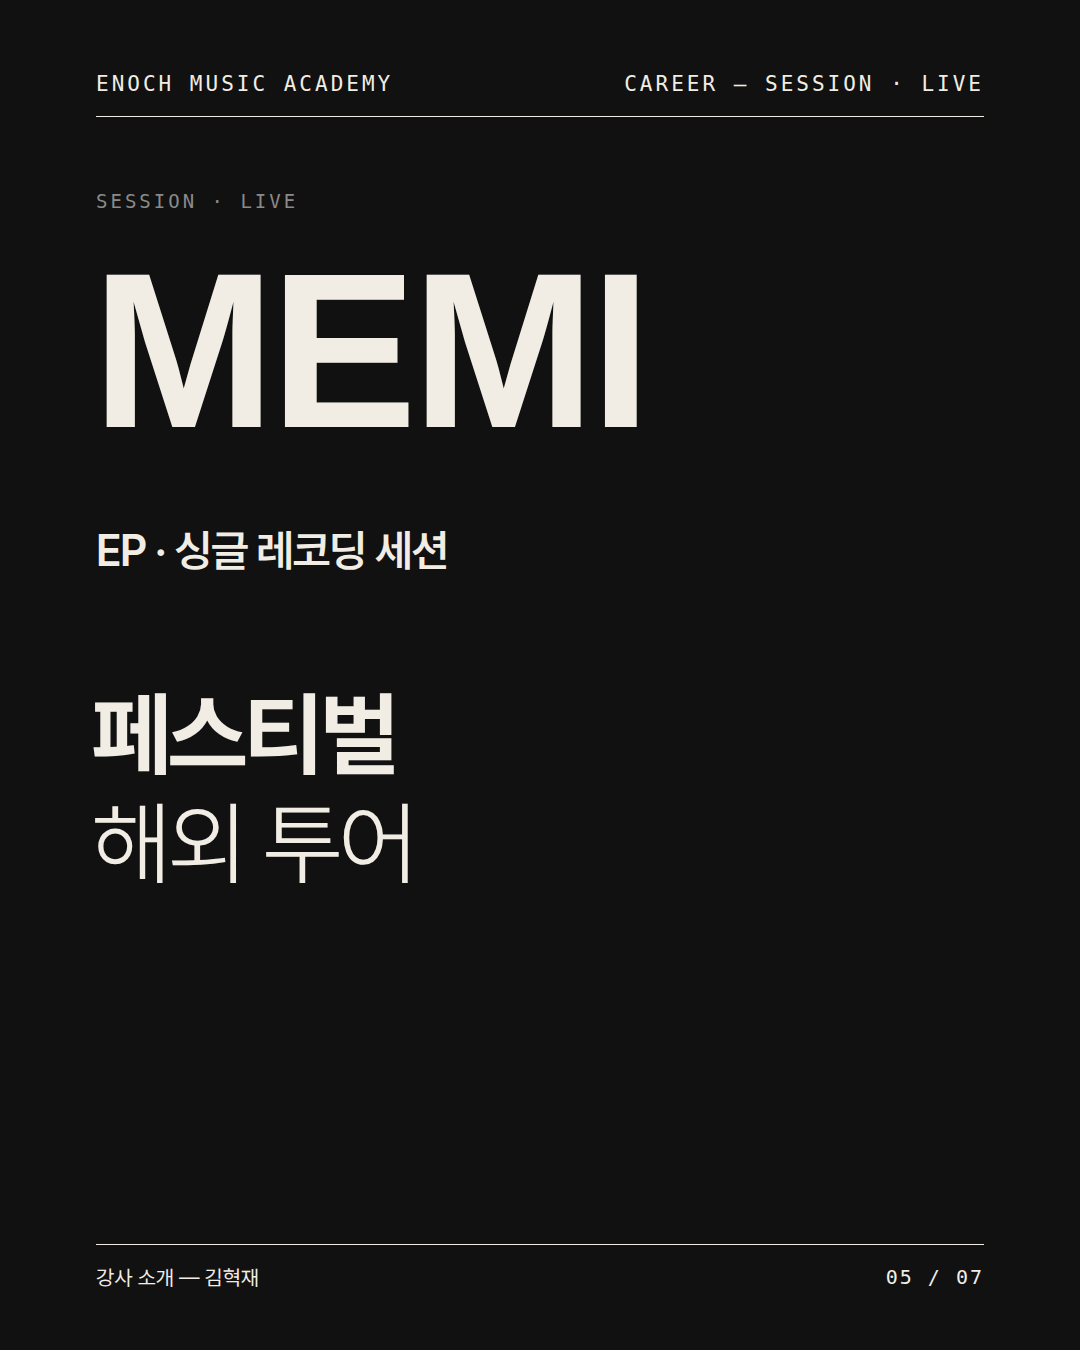
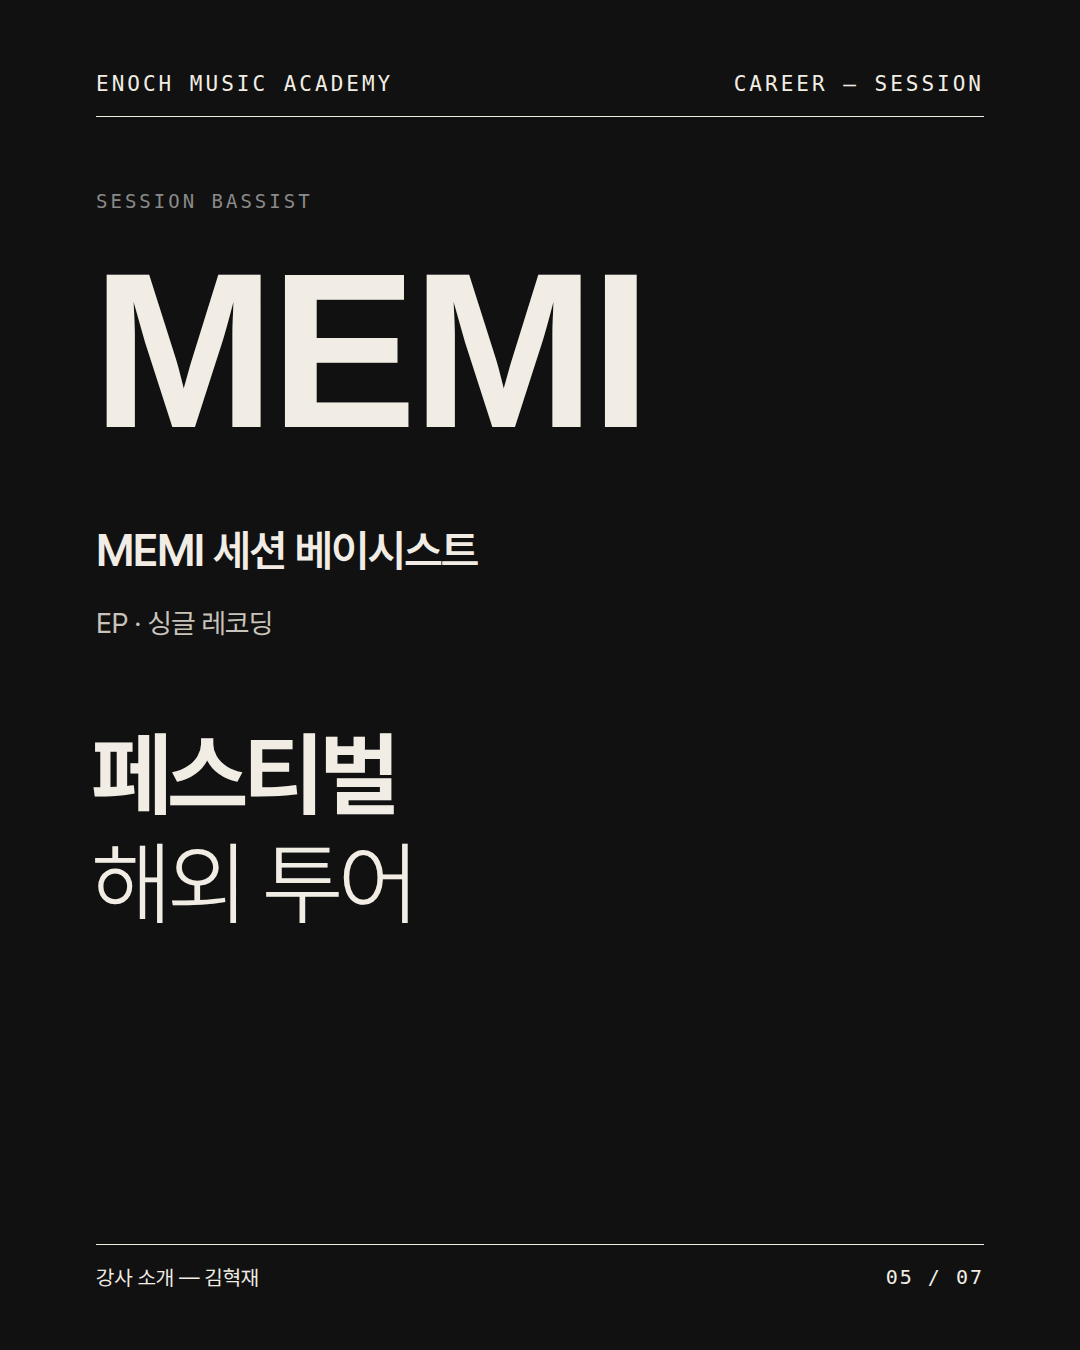
강사 소개 김혁재: MEMI 세션 베이시스트로 표기
Claude-Session: https://claude.ai/code/session_01HGbZvgMeYrbU7mY8bwfjyb

diff --git a/output/강사소개_김혁재/blog.html b/output/강사소개_김혁재/blog.html
@@ -40,11 +40,12 @@
 <div class="big" style="top:260px;font-size:176px">24HOURS</div>
 <div class="ko2" style="top:520px">밴드 24아워즈 베이시스트</div>
 <div class="sub" style="top:610px">정규 · EP · 싱글<br>작사 · 편곡 · 녹음 및 발매</div>
-<div class="ft"><span>강사 소개 — 김혁재</span><span>04 / 07</span></div></section><section class="s dark" id="b5"><div class="hd"><span>ENOCH MUSIC ACADEMY</span><span>CAREER — SESSION · LIVE</span></div>
-<div class="lbl k">Session · Live</div>
+<div class="ft"><span>강사 소개 — 김혁재</span><span>04 / 07</span></div></section><section class="s dark" id="b5"><div class="hd"><span>ENOCH MUSIC ACADEMY</span><span>CAREER — SESSION</span></div>
+<div class="lbl k">Session Bassist</div>
 <div class="big" style="top:250px;font-size:220px">MEMI</div>
-<div class="ko2" style="top:520px">EP · 싱글 레코딩 세션</div>
-<div style="position:absolute;left:92px;right:96px;top:680px;font-size:92px;font-weight:700;letter-spacing:-3.5px;line-height:1.18">페스티벌<br><span style="font-weight:300">해외 투어</span></div>
+<div class="ko2" style="top:520px">MEMI 세션 베이시스트</div>
+<div class="sub" style="top:600px">EP · 싱글 레코딩</div>
+<div style="position:absolute;left:92px;right:96px;top:720px;font-size:92px;font-weight:700;letter-spacing:-3.5px;line-height:1.18">페스티벌<br><span style="font-weight:300">해외 투어</span></div>
 <div class="ft"><span>강사 소개 — 김혁재</span><span>05 / 07</span></div></section><section class="s" id="b6"><div class="hd"><span>ENOCH MUSIC ACADEMY</span><span>LESSON</span></div>
 <div class="lbl k">Lesson</div>
 <div class="big" style="top:240px;font-size:330px;letter-spacing:-12px">1:1</div>

diff --git a/output/강사소개_김혁재/feed_black.html b/output/강사소개_김혁재/feed_black.html
@@ -67,7 +67,7 @@
   <div class="ph"></div>
   <div class="en">KIM HYEOKJAE</div>
   <div class="ko g">김혁재</div>
-  <div class="cv">명지전문대 실용음악과 졸업<br>밴드 24아워즈 베이시스트<br>정규 · EP · 싱글 작사 · 편곡 · 발매<br>MEMI 레코딩 세션 · 페스티벌 · 해외 투어</div>
+  <div class="cv">명지전문대 실용음악과 졸업<br>밴드 24아워즈 베이시스트<br>정규 · EP · 싱글 작사 · 편곡 · 발매<br>MEMI 세션 베이시스트 · 해외 투어</div>
   <div class="bt"><span><span class="lime">●</span>&nbsp; Bass</span><span class="g">1:1 Lesson</span><span class="g">나만의 진짜 소리를 찾는 곳</span></div>
 </section><section class="s dark" id="r4">
   <div class="hd"><span>ENOCH MUSIC ACADEMY</span><span>THE ENOCH WAY</span></div>

diff --git a/output/강사소개_김혁재/story.html b/output/강사소개_김혁재/story.html
@@ -40,6 +40,6 @@
   <div class="ph"></div>
   <div class="en">KIM<br>HYEOKJAE</div>
   <div class="ko g">김혁재</div>
-  <div class="cv"><span class="lab g">CAREER</span>명지전문대 실용음악과 졸업<br>밴드 24아워즈 베이시스트<br>정규 · EP · 싱글 작사 · 편곡 · 발매<br>MEMI 레코딩 세션 · 페스티벌 · 해외 투어</div>
+  <div class="cv"><span class="lab g">CAREER</span>명지전문대 실용음악과 졸업<br>밴드 24아워즈 베이시스트<br>정규 · EP · 싱글 작사 · 편곡 · 발매<br>MEMI 세션 베이시스트 · 해외 투어</div>
   <div class="bt"><span><span class="lime">●</span>&nbsp; Bass</span><span class="g">1:1 Lesson</span><span class="g">나만의 진짜 소리를 찾는 곳</span></div>
 </section></body></html>

diff --git a/output/강사소개_김혁재/caption.md b/output/강사소개_김혁재/caption.md
@@ -3,7 +3,7 @@
 ## 본문
 ENOCH TEACHERS. 베이스, 김혁재 선생님.
 
-밴드 24아워즈(24Hours)의 베이시스트. 정규, EP, 싱글 앨범의 작사 · 편곡 · 녹음과 발매에 참여했고, MEMI의 EP와 싱글 레코딩 세션, 국내 페스티벌과 해외 투어 무대에 섰습니다. 무대와 앨범으로 다져 온 베이스를, ENOCH에서는 1:1로 나눕니다.
+밴드 24아워즈(24Hours)의 베이시스트. 정규, EP, 싱글 앨범의 작사 · 편곡 · 녹음과 발매에 참여했고, MEMI의 세션 베이시스트로 EP와 싱글을 녹음하고, 국내 페스티벌과 해외 투어 무대에 섰습니다. 무대와 앨범으로 다져 온 베이스를, ENOCH에서는 1:1로 나눕니다.
 
 명지전문대학 실용음악과 졸업.
 

diff --git a/output/강사소개_김혁재/review.md b/output/강사소개_김혁재/review.md
@@ -2,3 +2,4 @@
 - 이수인 편과 같은 세트: 블랙 피드 2장, 스토리 1장, 블로그 7장(사진 1 + 타이포 6). 순번 없음.
 - 사진: 원장님 제공 공연 사진(`images/강사/김혁재_01.jpg`).
 - 24Hours 영문 표기 확인, MEMI는 세션 참여 확인(원장님 2026-10-13). "창단 멤버·리더" 등 확인 안 된 표현 없음.
+- 2026-10-13: MEMI는 세션 베이시스트로 표기(원장님 확인).
